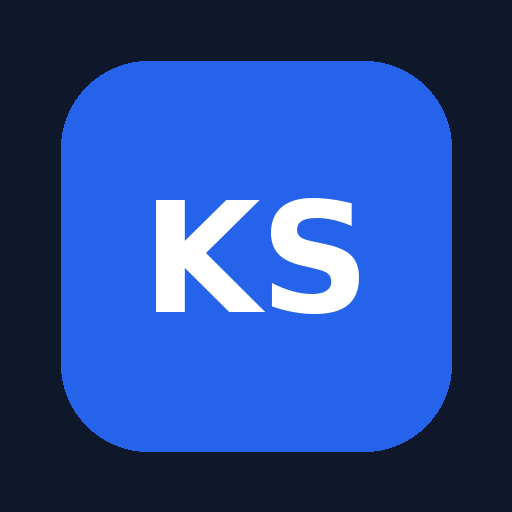
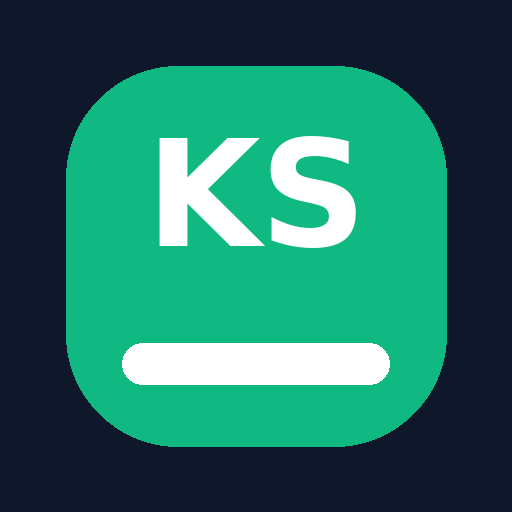
Make admin installable PWA and improve chat smoothness

diff --git a/admin.html b/admin.html
@@ -4,6 +4,13 @@
 <meta charset="UTF-8">
 <meta name="viewport" content="width=device-width, initial-scale=1.0">
 <meta name="theme-color" content="#0f172a">
+<meta name="mobile-web-app-capable" content="yes">
+<meta name="apple-mobile-web-app-capable" content="yes">
+<meta name="apple-mobile-web-app-status-bar-style" content="black-translucent">
+<meta name="apple-mobile-web-app-title" content="Kicks Station">
+<link rel="apple-touch-icon" href="./icons/icon-192.png">
+<link rel="icon" href="./favicon.ico" sizes="any">
+<link rel="icon" type="image/png" sizes="192x192" href="./icons/icon-192.png">
 <link rel="manifest" href="./manifest.webmanifest">
 <title>AL KAUTSAR — Admin Dashboard</title>
 <script src="https://cdn.tailwindcss.com"></script>
@@ -1463,6 +1470,9 @@ const KS_CHAT_API = API_URL;
 let ksChatTimer = null;
 let ksChatActiveId = '';
 let ksChatKnownUnread = 0;
+let ksChatConversationSignature = '';
+let ksChatMessagesSignature = '';
+let ksChatPolling = false;
 let ksChatHasInitialUnreadSnapshot = false;
 let ksChatAudioContext = null;
 let ksChatNotificationsEnabled = false;
@@ -1537,6 +1547,9 @@ async function refreshAdminConversations() {
     }
     ksChatKnownUnread = unread;
     ksChatHasInitialUnreadSnapshot = true;
+    const signature = JSON.stringify({ activeId: ksChatActiveId, list: list.map(item => [item.id, item.visitor_name, item.customer_name, item.last_message, item.last_message_at, item.unread_admin, item.status]) });
+    if (signature === ksChatConversationSignature) return;
+    ksChatConversationSignature = signature;
     if (!list.length) { box.innerHTML = '<p class="p-4 text-sm text-slate-500">Belum ada chat dari pelanggan.</p>'; return; }
     box.innerHTML = list.map(item => {
       const id = String(item.id);
@@ -1555,7 +1568,9 @@ document.getElementById('admin-chat-conversations').addEventListener('click', ev
 });
 async function selectAdminConversation(id, name) {
   ksChatActiveId = String(id);
-  document.getElementById('admin-chat-active-title').textContent = name || 'Pelanggan';
+  ksChatMessagesSignature = '';
+  ksChatConversationSignature = '';
+  document.getElementById('admin-chat-active-title') .textContent = name || 'Pelanggan';
   document.getElementById('admin-chat-input').disabled = false;
   document.getElementById('admin-chat-send').disabled = false;
   await loadAdminChatMessages();
@@ -1569,6 +1584,9 @@ async function loadAdminChatMessages() {
     if (!response.ok || !data.success) throw new Error(data.message || 'Gagal memuat pesan.');
     const box = document.getElementById('admin-chat-messages');
     const messages = Array.isArray(data.messages) ? data.messages : [];
+    const signature = JSON.stringify(messages);
+    if (signature === ksChatMessagesSignature) return;
+    ksChatMessagesSignature = signature;
     box.innerHTML = messages.map(message => `<div class="flex ${message.sender === 'admin' ? 'justify-end' : 'justify-start'}"><div class="max-w-[85%] rounded-2xl px-3 py-2 text-sm whitespace-pre-wrap break-words ${message.sender === 'admin' ? 'bg-slate-900 text-white' : 'bg-white border'}">${ksChatEsc(message.message)}<div class="text-[10px] opacity-60 mt-1">${ksChatEsc(new Date(message.created_at).toLocaleTimeString('id-ID', { hour: '2-digit', minute: '2-digit' }))}</div></div></div>`).join('') || '<p class="text-sm text-slate-500">Belum ada pesan.</p>';
     box.scrollTop = box.scrollHeight;
   } catch (error) { console.error('Isi chat gagal dimuat:', error); }
@@ -1579,7 +1597,12 @@ async function openAdminChat() {
   modal.classList.remove('hidden'); modal.classList.add('flex');
   await refreshAdminConversations();
   if (ksChatTimer) clearInterval(ksChatTimer);
-  ksChatTimer = setInterval(async () => { if (!document.hidden) { await refreshAdminConversations(); await loadAdminChatMessages(); } }, 3000);
+  ksChatTimer = setInterval(async () => {
+    if (document.hidden || ksChatPolling) return;
+    ksChatPolling = true;
+    try { await refreshAdminConversations(); await loadAdminChatMessages(); }
+    finally { ksChatPolling = false; }
+  }, 5000);
 }
 function closeAdminChat() {
   const modal = document.getElementById('admin-chat-modal');
@@ -1604,7 +1627,10 @@ document.getElementById('admin-chat-form').addEventListener('submit', async even
   } catch (error) { showToast(error.message || 'Gagal mengirim pesan.', 'error'); }
   finally { input.disabled = false; send.disabled = false; input.focus(); }
 });
-setInterval(() => { if (adminToken && !document.hidden) refreshAdminConversations(); }, 10000);
+setInterval(() => {
+  const chatModal = document.getElementById('admin-chat-modal');
+  if (adminToken && !document.hidden && (!chatModal || chatModal.classList.contains('hidden')) && !ksChatPolling) refreshAdminConversations();
+}, 15000);
 </script>
 
 
@@ -1648,6 +1674,16 @@ async function enableAdminPush() {
     if (button) button.textContent = originalText || '📲 Push latar';
     showToast(error.message || 'Notifikasi gagal diaktifkan.', 'error');
   } finally { if (button) button.disabled = false; }
+}
+</script>
+
+<script>
+// Daftarkan service worker otomatis agar browser mengenali admin sebagai PWA.
+if ('serviceWorker' in navigator && location.protocol === 'https:') {
+  window.addEventListener('load', () => {
+    navigator.serviceWorker.register('./service-worker.js', { scope: './' })
+      .catch(error => console.warn('PWA service worker gagal didaftarkan:', error));
+  });
 }
 </script>
 

diff --git a/service-worker.js b/service-worker.js
@@ -1,24 +1,61 @@
-const CACHE_NAME = 'kicks-station-shell-v3';
-const APP_SHELL = ['./', './index.html', './admin.html', './manifest.webmanifest'];
+const CACHE_NAME = 'kicks-station-shell-v4';
+const APP_SHELL = [
+  './',
+  './index.html',
+  './admin.html',
+  './manifest.webmanifest',
+  './icons/icon-192.png',
+  './icons/icon-512.png'
+];
+
 self.addEventListener('install', event => {
-  event.waitUntil(caches.open(CACHE_NAME).then(cache => cache.addAll(APP_SHELL)).catch(() => {}));
+  event.waitUntil(
+    caches.open(CACHE_NAME)
+      .then(cache => cache.addAll(APP_SHELL))
+      .catch(error => console.warn('App shell cache tidak lengkap:', error))
+  );
   self.skipWaiting();
 });
+
 self.addEventListener('activate', event => {
-  event.waitUntil(caches.keys().then(keys => Promise.all(keys.filter(key => key.startsWith('kicks-station-shell-') && key !== CACHE_NAME).map(key => caches.delete(key)))));
+  event.waitUntil(
+    caches.keys().then(keys => Promise.all(
+      keys.filter(key => key.startsWith('kicks-station-shell-') && key !== CACHE_NAME)
+        .map(key => caches.delete(key))
+    ))
+  );
   self.clients.claim();
 });
+
 self.addEventListener('fetch', event => {
-  const url = new URL(event.request.url);
-  if (event.request.method !== 'GET' || url.origin !== self.location.origin) return;
-  event.respondWith(fetch(event.request).then(response => {
-    if (response.ok) { const copy = response.clone(); caches.open(CACHE_NAME).then(cache => cache.put(event.request, copy)); }
-    return response;
-  }).catch(() => caches.match(event.request)));
+  const request = event.request;
+  if (request.method !== 'GET') return;
+  const url = new URL(request.url);
+  if (url.origin !== self.location.origin) return;
+
+  // Network-first: halaman admin tetap diperbarui dari GitHub Pages; cache hanya fallback offline.
+  event.respondWith(
+    fetch(request).then(response => {
+      if (response && response.ok && (request.destination === 'document' || /\.(?:html|webmanifest|png|svg|css|js|ico)$/i.test(url.pathname))) {
+        const copy = response.clone();
+        caches.open(CACHE_NAME).then(cache => cache.put(request, copy)).catch(() => {});
+      }
+      return response;
+    }).catch(async () => {
+      const cached = await caches.match(request);
+      if (cached) return cached;
+      if (request.mode === 'navigate') {
+        return (await caches.match('./admin.html')) || Response.error();
+      }
+      return Response.error();
+    })
+  );
 });
+
 self.addEventListener('push', event => {
   let data = {};
-  try { data = event.data ? event.data.json() : {}; } catch (_) { data = { body: event.data ? event.data.text() : '' }; }
+  try { data = event.data ? event.data.json() : {}; }
+  catch (_) { data = { body: event.data ? event.data.text() : '' }; }
   const title = data.title || 'Pesan baru — Kicks Station';
   const options = {
     body: data.body || 'Ada pesan baru dari pelanggan.',
@@ -32,6 +69,7 @@ self.addEventListener('push', event => {
   };
   event.waitUntil(self.registration.showNotification(title, options));
 });
+
 self.addEventListener('notificationclick', event => {
   event.notification.close();
   const target = new URL(event.notification.data && event.notification.data.url || './admin.html?openChat=1', self.registration.scope).href;

diff --git a/README-PWA-ID.md b/README-PWA-ID.md
@@ -1,0 +1,31 @@
+# Update PWA Admin Kicks Station
+
+## File yang diganti/ditambahkan
+- `admin.html` — metadata aplikasi, pendaftaran service worker otomatis, dan pengurangan polling/render ulang chat yang tidak diperlukan.
+- `service-worker.js` — cache app shell, fallback offline untuk halaman, dan tetap mempertahankan Web Push serta aksi klik notifikasi.
+- `manifest.webmanifest` — identitas dan konfigurasi instalasi PWA.
+- `icons/icon-192.png`, `icons/icon-512.png`, `icons/apple-touch-icon.png` — ikon aplikasi.
+
+## Cara memasang update
+1. Backup project.
+2. Ekstrak ZIP ke folder utama project dan izinkan mengganti file yang ada.
+3. Jangan hapus file lain, terutama `backend/server.js`, `package.json`, `package-lock.json`, dan file project lainnya.
+4. Periksa: `git diff --check`
+5. Commit hanya file update yang diperlukan:
+
+```powershell
+git add admin.html service-worker.js manifest.webmanifest icons/icon-192.png icons/icon-512.png icons/apple-touch-icon.png README-PWA-ID.md
+git commit -m "Make Kicks Station admin installable PWA and improve chat smoothness"
+git pull --rebase origin main
+git push origin main
+```
+
+6. Pastikan GitHub Pages selesai deploy.
+7. Buka `https://leonnidazz.github.io/admin.html` di Chrome/Edge, login, lalu pilih menu browser `Install app` atau `Tambahkan ke layar utama`.
+8. Karena service worker berubah, tutup lalu buka kembali aplikasi. Jika masih memakai versi lama, buka halaman admin dan lakukan hard refresh sekali.
+
+## Catatan
+- Ini PWA, bukan APK native. Pemasangan tersedia melalui browser yang mendukungnya.
+- Offline hanya menjadi fallback untuk halaman statis; login, chat, database, dan notifikasi push tetap memerlukan koneksi internet.
+- Perubahan polling mengurangi request berulang dan render ulang daftar chat ketika data tidak berubah. Performa tetap bergantung pada perangkat, jaringan, dan backend.
+- Tailwind CDN masih digunakan dan dapat menghasilkan peringatan di console; migrasi Tailwind ke CSS hasil build bisa dilakukan sebagai tahap optimasi terpisah.
